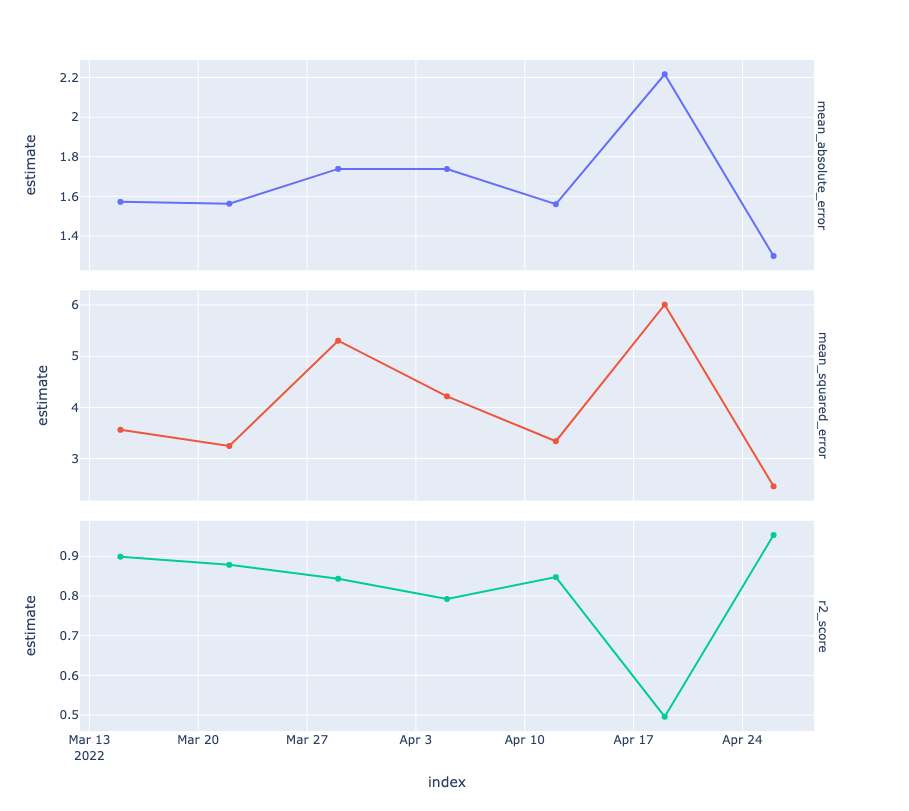
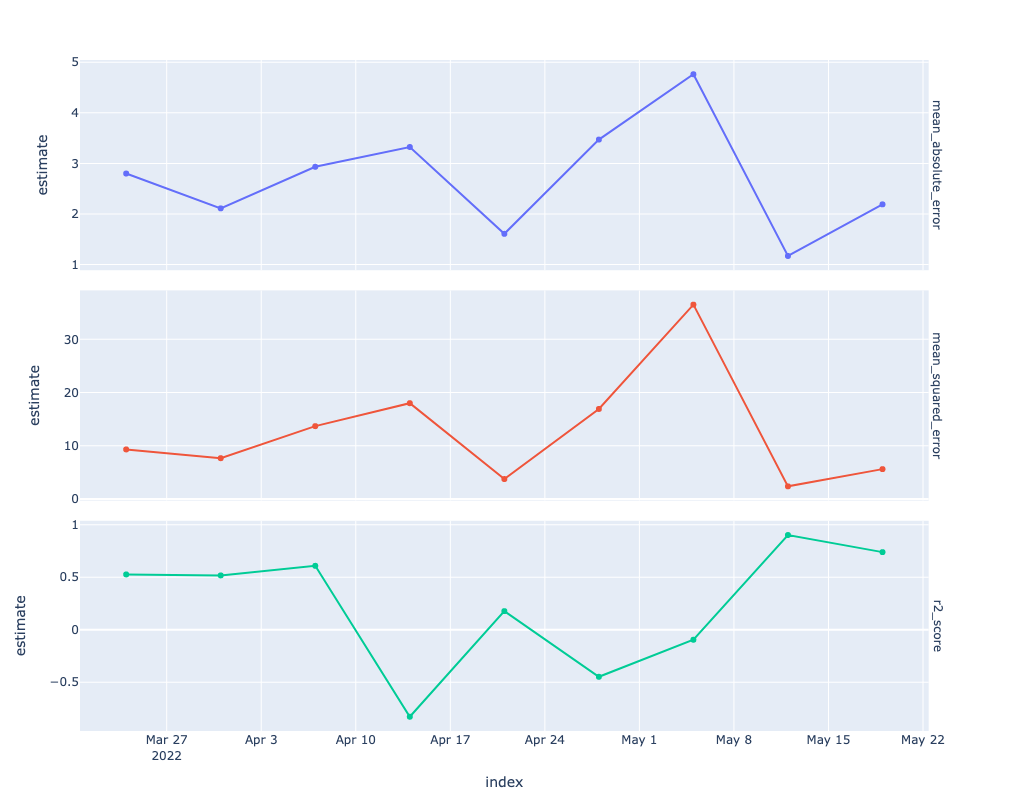
Fix up plot, printing, and then render

diff --git a/docs/get-started/monitor.html b/docs/get-started/monitor.html
@@ -336,28 +336,27 @@ How does my model use time?
 <span id="cb5-5"><a href="#cb5-5" aria-hidden="true" tabindex="-1"></a><span class="im">from</span> datetime <span class="im">import</span> timedelta</span>
 <span id="cb5-6"><a href="#cb5-6" aria-hidden="true" tabindex="-1"></a></span>
 <span id="cb5-7"><a href="#cb5-7" aria-hidden="true" tabindex="-1"></a>cars <span class="op">=</span> pd.read_csv(<span class="st">"https://vetiver.rstudio.com/get-started/new-cars.csv"</span>)</span>
-<span id="cb5-8"><a href="#cb5-8" aria-hidden="true" tabindex="-1"></a>original_cars <span class="op">=</span> cars.iloc[:<span class="dv">14</span>, :]</span>
-<span id="cb5-9"><a href="#cb5-9" aria-hidden="true" tabindex="-1"></a>original_cars[<span class="st">"preds"</span>] <span class="op">=</span> v.model.predict(original_cars.drop(columns<span class="op">=</span>[<span class="st">"date_obs"</span>, <span class="st">"mpg"</span>]))</span></code><button title="Copy to Clipboard" class="code-copy-button"><i class="bi"></i></button></pre></div>
-<div class="cell-output cell-output-stdout">
-<pre><code>&lt;string&gt;:1: SettingWithCopyWarning: 
-A value is trying to be set on a copy of a slice from a DataFrame.
-Try using .loc[row_indexer,col_indexer] = value instead
-
-See the caveats in the documentation: https://pandas.pydata.org/pandas-docs/stable/user_guide/indexing.html#returning-a-view-versus-a-copy</code></pre>
-</div>
-<div class="sourceCode cell-code" id="cb7"><pre class="sourceCode python code-with-copy"><code class="sourceCode python"><span id="cb7-1"><a href="#cb7-1" aria-hidden="true" tabindex="-1"></a>metric_set <span class="op">=</span> [metrics.mean_absolute_error, metrics.mean_squared_error, metrics.r2_score]</span>
-<span id="cb7-2"><a href="#cb7-2" aria-hidden="true" tabindex="-1"></a>td <span class="op">=</span> timedelta(weeks <span class="op">=</span> <span class="dv">1</span>)</span>
-<span id="cb7-3"><a href="#cb7-3" aria-hidden="true" tabindex="-1"></a></span>
-<span id="cb7-4"><a href="#cb7-4" aria-hidden="true" tabindex="-1"></a>original_metrics <span class="op">=</span> vetiver.compute_metrics(</span>
-<span id="cb7-5"><a href="#cb7-5" aria-hidden="true" tabindex="-1"></a>    data <span class="op">=</span> original_cars, </span>
-<span id="cb7-6"><a href="#cb7-6" aria-hidden="true" tabindex="-1"></a>    date_var <span class="op">=</span> <span class="st">"date_obs"</span>, </span>
-<span id="cb7-7"><a href="#cb7-7" aria-hidden="true" tabindex="-1"></a>    period <span class="op">=</span> td, </span>
-<span id="cb7-8"><a href="#cb7-8" aria-hidden="true" tabindex="-1"></a>    metric_set <span class="op">=</span> metric_set, </span>
-<span id="cb7-9"><a href="#cb7-9" aria-hidden="true" tabindex="-1"></a>    truth <span class="op">=</span> <span class="st">"mpg"</span>, </span>
-<span id="cb7-10"><a href="#cb7-10" aria-hidden="true" tabindex="-1"></a>    estimate <span class="op">=</span> <span class="st">"preds"</span></span>
-<span id="cb7-11"><a href="#cb7-11" aria-hidden="true" tabindex="-1"></a>)</span>
-<span id="cb7-12"><a href="#cb7-12" aria-hidden="true" tabindex="-1"></a></span>
-<span id="cb7-13"><a href="#cb7-13" aria-hidden="true" tabindex="-1"></a>original_metrics</span></code><button title="Copy to Clipboard" class="code-copy-button"><i class="bi"></i></button></pre></div>
+<span id="cb5-8"><a href="#cb5-8" aria-hidden="true" tabindex="-1"></a>original_cars <span class="op">=</span> cars.iloc[:<span class="dv">14</span>, :].copy()</span>
+<span id="cb5-9"><a href="#cb5-9" aria-hidden="true" tabindex="-1"></a>original_cars[<span class="st">"preds"</span>] <span class="op">=</span> v.model.predict(</span>
+<span id="cb5-10"><a href="#cb5-10" aria-hidden="true" tabindex="-1"></a>    original_cars.drop(columns<span class="op">=</span>[<span class="st">"date_obs"</span>, <span class="st">"mpg"</span>])</span>
+<span id="cb5-11"><a href="#cb5-11" aria-hidden="true" tabindex="-1"></a>)</span>
+<span id="cb5-12"><a href="#cb5-12" aria-hidden="true" tabindex="-1"></a></span>
+<span id="cb5-13"><a href="#cb5-13" aria-hidden="true" tabindex="-1"></a>metric_set <span class="op">=</span> [metrics.mean_absolute_error, </span>
+<span id="cb5-14"><a href="#cb5-14" aria-hidden="true" tabindex="-1"></a>  metrics.mean_squared_error, </span>
+<span id="cb5-15"><a href="#cb5-15" aria-hidden="true" tabindex="-1"></a>  metrics.r2_score]</span>
+<span id="cb5-16"><a href="#cb5-16" aria-hidden="true" tabindex="-1"></a>  </span>
+<span id="cb5-17"><a href="#cb5-17" aria-hidden="true" tabindex="-1"></a>td <span class="op">=</span> timedelta(weeks <span class="op">=</span> <span class="dv">1</span>)</span>
+<span id="cb5-18"><a href="#cb5-18" aria-hidden="true" tabindex="-1"></a></span>
+<span id="cb5-19"><a href="#cb5-19" aria-hidden="true" tabindex="-1"></a>original_metrics <span class="op">=</span> vetiver.compute_metrics(</span>
+<span id="cb5-20"><a href="#cb5-20" aria-hidden="true" tabindex="-1"></a>    data <span class="op">=</span> original_cars, </span>
+<span id="cb5-21"><a href="#cb5-21" aria-hidden="true" tabindex="-1"></a>    date_var <span class="op">=</span> <span class="st">"date_obs"</span>, </span>
+<span id="cb5-22"><a href="#cb5-22" aria-hidden="true" tabindex="-1"></a>    period <span class="op">=</span> td, </span>
+<span id="cb5-23"><a href="#cb5-23" aria-hidden="true" tabindex="-1"></a>    metric_set <span class="op">=</span> metric_set, </span>
+<span id="cb5-24"><a href="#cb5-24" aria-hidden="true" tabindex="-1"></a>    truth <span class="op">=</span> <span class="st">"mpg"</span>, </span>
+<span id="cb5-25"><a href="#cb5-25" aria-hidden="true" tabindex="-1"></a>    estimate <span class="op">=</span> <span class="st">"preds"</span></span>
+<span id="cb5-26"><a href="#cb5-26" aria-hidden="true" tabindex="-1"></a>)</span>
+<span id="cb5-27"><a href="#cb5-27" aria-hidden="true" tabindex="-1"></a></span>
+<span id="cb5-28"><a href="#cb5-28" aria-hidden="true" tabindex="-1"></a>original_metrics</span></code><button title="Copy to Clipboard" class="code-copy-button"><i class="bi"></i></button></pre></div>
 <div class="cell-output cell-output-stdout">
 <pre><code>       index  n               metric   estimate
 0 2022-03-24  7  mean_absolute_error   3.164286
@@ -374,44 +373,61 @@ See the caveats in the documentation: https://pandas.pydata.org/pandas-docs/stab
 </section>
 <section id="pin-metrics" class="level2">
 <h2 class="anchored" data-anchor-id="pin-metrics">Pin metrics</h2>
-<p>The first time you pin monitoring metrics, you can write to a board as normal. However, when adding new metrics measurements to your pin as you continue to gather new data and monitor, you may have dates that overlap with those already in the pin, depending on your monitoring strategy. You can choose how to handle overlapping dates with the <code>overwrite</code> argument.</p>
+<p>The first time you pin monitoring metrics, you can write to a board as normal.</p>
 <div class="panel-tabset" data-group="language">
 <ul class="nav nav-tabs" role="tablist"><li class="nav-item" role="presentation"><a class="nav-link active" id="tabset-3-1-tab" data-bs-toggle="tab" data-bs-target="#tabset-3-1" role="tab" aria-controls="tabset-3-1" aria-selected="true">R</a></li><li class="nav-item" role="presentation"><a class="nav-link" id="tabset-3-2-tab" data-bs-toggle="tab" data-bs-target="#tabset-3-2" role="tab" aria-controls="tabset-3-2" aria-selected="false">Python</a></li></ul>
 <div class="tab-content" data-group="language">
 <div id="tabset-3-1" class="tab-pane active" role="tabpanel" aria-labelledby="tabset-3-1-tab">
 <div class="cell">
-<div class="sourceCode cell-code" id="cb9"><pre class="sourceCode r code-with-copy"><code class="sourceCode r"><span id="cb9-1"><a href="#cb9-1" aria-hidden="true" tabindex="-1"></a>model_board <span class="sc">%&gt;%</span> <span class="fu">pin_write</span>(original_metrics, <span class="st">"tree_metrics"</span>)</span>
-<span id="cb9-2"><a href="#cb9-2" aria-hidden="true" tabindex="-1"></a></span>
-<span id="cb9-3"><a href="#cb9-3" aria-hidden="true" tabindex="-1"></a><span class="co"># dates overlap with existing metrics:</span></span>
-<span id="cb9-4"><a href="#cb9-4" aria-hidden="true" tabindex="-1"></a>new_cars <span class="ot">&lt;-</span> <span class="fu">slice</span>(cars, <span class="sc">-</span><span class="dv">1</span><span class="sc">:-</span><span class="dv">7</span>)</span>
-<span id="cb9-5"><a href="#cb9-5" aria-hidden="true" tabindex="-1"></a>new_metrics <span class="ot">&lt;-</span></span>
-<span id="cb9-6"><a href="#cb9-6" aria-hidden="true" tabindex="-1"></a>    <span class="fu">augment</span>(v, <span class="at">new_data =</span> new_cars) <span class="sc">%&gt;%</span></span>
-<span id="cb9-7"><a href="#cb9-7" aria-hidden="true" tabindex="-1"></a>    <span class="fu">vetiver_compute_metrics</span>(date_obs, <span class="st">"week"</span>, mpg, .pred)</span>
-<span id="cb9-8"><a href="#cb9-8" aria-hidden="true" tabindex="-1"></a></span>
-<span id="cb9-9"><a href="#cb9-9" aria-hidden="true" tabindex="-1"></a>model_board <span class="sc">%&gt;%</span></span>
-<span id="cb9-10"><a href="#cb9-10" aria-hidden="true" tabindex="-1"></a>    <span class="fu">vetiver_pin_metrics</span>(new_metrics, <span class="st">"tree_metrics"</span>, <span class="at">overwrite =</span> <span class="cn">TRUE</span>)</span></code><button title="Copy to Clipboard" class="code-copy-button"><i class="bi"></i></button></pre></div>
+<div class="sourceCode cell-code" id="cb7"><pre class="sourceCode r code-with-copy"><code class="sourceCode r"><span id="cb7-1"><a href="#cb7-1" aria-hidden="true" tabindex="-1"></a>model_board <span class="sc">%&gt;%</span> <span class="fu">pin_write</span>(original_metrics, <span class="st">"tree_metrics"</span>)</span></code><button title="Copy to Clipboard" class="code-copy-button"><i class="bi"></i></button></pre></div>
 </div>
 </div>
 <div id="tabset-3-2" class="tab-pane" role="tabpanel" aria-labelledby="tabset-3-2-tab">
 <div class="cell">
-<div class="sourceCode cell-code" id="cb10"><pre class="sourceCode python code-with-copy"><code class="sourceCode python"><span id="cb10-1"><a href="#cb10-1" aria-hidden="true" tabindex="-1"></a><span class="im">import</span> vetiver</span>
-<span id="cb10-2"><a href="#cb10-2" aria-hidden="true" tabindex="-1"></a><span class="im">import</span> pins</span>
-<span id="cb10-3"><a href="#cb10-3" aria-hidden="true" tabindex="-1"></a></span>
-<span id="cb10-4"><a href="#cb10-4" aria-hidden="true" tabindex="-1"></a>model_board.pin_write(original_metrics, <span class="st">"tree_metrics"</span>, <span class="bu">type</span> <span class="op">=</span> <span class="st">"csv"</span>)</span>
-<span id="cb10-5"><a href="#cb10-5" aria-hidden="true" tabindex="-1"></a></span>
-<span id="cb10-6"><a href="#cb10-6" aria-hidden="true" tabindex="-1"></a><span class="co"># dates overlap with existing metrics:</span></span></code><button title="Copy to Clipboard" class="code-copy-button"><i class="bi"></i></button></pre></div>
-<div class="sourceCode cell-code" id="cb11"><pre class="sourceCode python code-with-copy"><code class="sourceCode python"><span id="cb11-1"><a href="#cb11-1" aria-hidden="true" tabindex="-1"></a>new_cars <span class="op">=</span> cars.iloc[<span class="dv">7</span>:, :]</span>
-<span id="cb11-2"><a href="#cb11-2" aria-hidden="true" tabindex="-1"></a>new_cars[<span class="st">"preds"</span>] <span class="op">=</span> v.model.predict(new_cars.drop(columns<span class="op">=</span>[<span class="st">"date_obs"</span>, <span class="st">"mpg"</span>]))</span></code><button title="Copy to Clipboard" class="code-copy-button"><i class="bi"></i></button></pre></div>
-<div class="sourceCode cell-code" id="cb12"><pre class="sourceCode python code-with-copy"><code class="sourceCode python"><span id="cb12-1"><a href="#cb12-1" aria-hidden="true" tabindex="-1"></a>new_metrics <span class="op">=</span> vetiver.compute_metrics(</span>
-<span id="cb12-2"><a href="#cb12-2" aria-hidden="true" tabindex="-1"></a>    data <span class="op">=</span> new_cars, </span>
-<span id="cb12-3"><a href="#cb12-3" aria-hidden="true" tabindex="-1"></a>    date_var <span class="op">=</span> <span class="st">"date_obs"</span>, </span>
-<span id="cb12-4"><a href="#cb12-4" aria-hidden="true" tabindex="-1"></a>    period <span class="op">=</span> td, </span>
-<span id="cb12-5"><a href="#cb12-5" aria-hidden="true" tabindex="-1"></a>    metric_set <span class="op">=</span> metric_set, </span>
-<span id="cb12-6"><a href="#cb12-6" aria-hidden="true" tabindex="-1"></a>    truth <span class="op">=</span> <span class="st">"mpg"</span>, </span>
-<span id="cb12-7"><a href="#cb12-7" aria-hidden="true" tabindex="-1"></a>    estimate <span class="op">=</span> <span class="st">"preds"</span></span>
-<span id="cb12-8"><a href="#cb12-8" aria-hidden="true" tabindex="-1"></a>)</span>
-<span id="cb12-9"><a href="#cb12-9" aria-hidden="true" tabindex="-1"></a>                    </span>
-<span id="cb12-10"><a href="#cb12-10" aria-hidden="true" tabindex="-1"></a>vetiver.pin_metrics(model_board, new_metrics, <span class="st">"tree_metrics"</span>, overwrite <span class="op">=</span> <span class="va">True</span>)</span></code><button title="Copy to Clipboard" class="code-copy-button"><i class="bi"></i></button></pre></div>
+<div class="sourceCode cell-code" id="cb8"><pre class="sourceCode python code-with-copy"><code class="sourceCode python"><span id="cb8-1"><a href="#cb8-1" aria-hidden="true" tabindex="-1"></a>model_board.pin_write(original_metrics, <span class="st">"tree_metrics"</span>, <span class="bu">type</span> <span class="op">=</span> <span class="st">"csv"</span>)</span></code><button title="Copy to Clipboard" class="code-copy-button"><i class="bi"></i></button></pre></div>
+</div>
+</div>
+</div>
+</div>
+<p>However, when adding new metrics measurements to your pin as you continue to gather new data and monitor, you may have dates that overlap with those already in the pin, depending on your monitoring strategy. You can choose how to handle overlapping dates with the <code>overwrite</code> argument.</p>
+<div class="panel-tabset" data-group="language">
+<ul class="nav nav-tabs" role="tablist"><li class="nav-item" role="presentation"><a class="nav-link active" id="tabset-4-1-tab" data-bs-toggle="tab" data-bs-target="#tabset-4-1" role="tab" aria-controls="tabset-4-1" aria-selected="true">R</a></li><li class="nav-item" role="presentation"><a class="nav-link" id="tabset-4-2-tab" data-bs-toggle="tab" data-bs-target="#tabset-4-2" role="tab" aria-controls="tabset-4-2" aria-selected="false">Python</a></li></ul>
+<div class="tab-content" data-group="language">
+<div id="tabset-4-1" class="tab-pane active" role="tabpanel" aria-labelledby="tabset-4-1-tab">
+<div class="cell">
+<div class="sourceCode cell-code" id="cb9"><pre class="sourceCode r code-with-copy"><code class="sourceCode r"><span id="cb9-1"><a href="#cb9-1" aria-hidden="true" tabindex="-1"></a><span class="co"># dates overlap with existing metrics:</span></span>
+<span id="cb9-2"><a href="#cb9-2" aria-hidden="true" tabindex="-1"></a>new_cars <span class="ot">&lt;-</span> <span class="fu">slice</span>(cars, <span class="sc">-</span><span class="dv">1</span><span class="sc">:-</span><span class="dv">7</span>)</span>
+<span id="cb9-3"><a href="#cb9-3" aria-hidden="true" tabindex="-1"></a>new_metrics <span class="ot">&lt;-</span></span>
+<span id="cb9-4"><a href="#cb9-4" aria-hidden="true" tabindex="-1"></a>    <span class="fu">augment</span>(v, <span class="at">new_data =</span> new_cars) <span class="sc">%&gt;%</span></span>
+<span id="cb9-5"><a href="#cb9-5" aria-hidden="true" tabindex="-1"></a>    <span class="fu">vetiver_compute_metrics</span>(date_obs, <span class="st">"week"</span>, mpg, .pred)</span>
+<span id="cb9-6"><a href="#cb9-6" aria-hidden="true" tabindex="-1"></a></span>
+<span id="cb9-7"><a href="#cb9-7" aria-hidden="true" tabindex="-1"></a>model_board <span class="sc">%&gt;%</span></span>
+<span id="cb9-8"><a href="#cb9-8" aria-hidden="true" tabindex="-1"></a>    <span class="fu">vetiver_pin_metrics</span>(new_metrics, <span class="st">"tree_metrics"</span>, <span class="at">overwrite =</span> <span class="cn">TRUE</span>)</span></code><button title="Copy to Clipboard" class="code-copy-button"><i class="bi"></i></button></pre></div>
+</div>
+</div>
+<div id="tabset-4-2" class="tab-pane" role="tabpanel" aria-labelledby="tabset-4-2-tab">
+<div class="cell">
+<div class="sourceCode cell-code" id="cb10"><pre class="sourceCode python code-with-copy"><code class="sourceCode python"><span id="cb10-1"><a href="#cb10-1" aria-hidden="true" tabindex="-1"></a><span class="co"># dates overlap with existing metrics:</span></span>
+<span id="cb10-2"><a href="#cb10-2" aria-hidden="true" tabindex="-1"></a>new_cars <span class="op">=</span> cars.iloc[<span class="dv">7</span>:, :].copy()</span>
+<span id="cb10-3"><a href="#cb10-3" aria-hidden="true" tabindex="-1"></a>new_cars[<span class="st">"preds"</span>] <span class="op">=</span> v.model.predict(</span>
+<span id="cb10-4"><a href="#cb10-4" aria-hidden="true" tabindex="-1"></a>    new_cars.drop(columns<span class="op">=</span>[<span class="st">"date_obs"</span>, <span class="st">"mpg"</span>])</span>
+<span id="cb10-5"><a href="#cb10-5" aria-hidden="true" tabindex="-1"></a>)</span>
+<span id="cb10-6"><a href="#cb10-6" aria-hidden="true" tabindex="-1"></a></span>
+<span id="cb10-7"><a href="#cb10-7" aria-hidden="true" tabindex="-1"></a>new_metrics <span class="op">=</span> vetiver.compute_metrics(</span>
+<span id="cb10-8"><a href="#cb10-8" aria-hidden="true" tabindex="-1"></a>    data <span class="op">=</span> new_cars, </span>
+<span id="cb10-9"><a href="#cb10-9" aria-hidden="true" tabindex="-1"></a>    date_var <span class="op">=</span> <span class="st">"date_obs"</span>, </span>
+<span id="cb10-10"><a href="#cb10-10" aria-hidden="true" tabindex="-1"></a>    period <span class="op">=</span> td, </span>
+<span id="cb10-11"><a href="#cb10-11" aria-hidden="true" tabindex="-1"></a>    metric_set <span class="op">=</span> metric_set, </span>
+<span id="cb10-12"><a href="#cb10-12" aria-hidden="true" tabindex="-1"></a>    truth <span class="op">=</span> <span class="st">"mpg"</span>, </span>
+<span id="cb10-13"><a href="#cb10-13" aria-hidden="true" tabindex="-1"></a>    estimate <span class="op">=</span> <span class="st">"preds"</span></span>
+<span id="cb10-14"><a href="#cb10-14" aria-hidden="true" tabindex="-1"></a>)</span>
+<span id="cb10-15"><a href="#cb10-15" aria-hidden="true" tabindex="-1"></a>                    </span>
+<span id="cb10-16"><a href="#cb10-16" aria-hidden="true" tabindex="-1"></a>vetiver.pin_metrics(</span>
+<span id="cb10-17"><a href="#cb10-17" aria-hidden="true" tabindex="-1"></a>    model_board, </span>
+<span id="cb10-18"><a href="#cb10-18" aria-hidden="true" tabindex="-1"></a>    new_metrics, </span>
+<span id="cb10-19"><a href="#cb10-19" aria-hidden="true" tabindex="-1"></a>    <span class="st">"tree_metrics"</span>, </span>
+<span id="cb10-20"><a href="#cb10-20" aria-hidden="true" tabindex="-1"></a>    overwrite <span class="op">=</span> <span class="va">True</span></span>
+<span id="cb10-21"><a href="#cb10-21" aria-hidden="true" tabindex="-1"></a>)</span></code><button title="Copy to Clipboard" class="code-copy-button"><i class="bi"></i></button></pre></div>
 </div>
 </div>
 </div>
@@ -421,24 +437,29 @@ See the caveats in the documentation: https://pandas.pydata.org/pandas-docs/stab
 <h2 class="anchored" data-anchor-id="plot-metrics">Plot metrics</h2>
 <p>You can visualize your set of computed metrics and your model’s performance<a href="#fn1" class="footnote-ref" id="fnref1" role="doc-noteref"><sup>1</sup></a>.</p>
 <div class="panel-tabset" data-group="language">
-<ul class="nav nav-tabs" role="tablist"><li class="nav-item" role="presentation"><a class="nav-link active" id="tabset-4-1-tab" data-bs-toggle="tab" data-bs-target="#tabset-4-1" role="tab" aria-controls="tabset-4-1" aria-selected="true">R</a></li><li class="nav-item" role="presentation"><a class="nav-link" id="tabset-4-2-tab" data-bs-toggle="tab" data-bs-target="#tabset-4-2" role="tab" aria-controls="tabset-4-2" aria-selected="false">Python</a></li></ul>
+<ul class="nav nav-tabs" role="tablist"><li class="nav-item" role="presentation"><a class="nav-link active" id="tabset-5-1-tab" data-bs-toggle="tab" data-bs-target="#tabset-5-1" role="tab" aria-controls="tabset-5-1" aria-selected="true">R</a></li><li class="nav-item" role="presentation"><a class="nav-link" id="tabset-5-2-tab" data-bs-toggle="tab" data-bs-target="#tabset-5-2" role="tab" aria-controls="tabset-5-2" aria-selected="false">Python</a></li></ul>
 <div class="tab-content" data-group="language">
-<div id="tabset-4-1" class="tab-pane active" role="tabpanel" aria-labelledby="tabset-4-1-tab">
-<div class="cell">
-<div class="sourceCode cell-code" id="cb13"><pre class="sourceCode r code-with-copy"><code class="sourceCode r"><span id="cb13-1"><a href="#cb13-1" aria-hidden="true" tabindex="-1"></a><span class="fu">library</span>(ggplot2)</span>
-<span id="cb13-2"><a href="#cb13-2" aria-hidden="true" tabindex="-1"></a>monitoring_metrics <span class="ot">&lt;-</span> model_board <span class="sc">%&gt;%</span> <span class="fu">pin_read</span>(<span class="st">"tree_metrics"</span>)</span>
-<span id="cb13-3"><a href="#cb13-3" aria-hidden="true" tabindex="-1"></a><span class="fu">vetiver_plot_metrics</span>(monitoring_metrics) <span class="sc">+</span></span>
-<span id="cb13-4"><a href="#cb13-4" aria-hidden="true" tabindex="-1"></a>    <span class="fu">scale_size</span>(<span class="at">range =</span> <span class="fu">c</span>(<span class="dv">2</span>, <span class="dv">4</span>))</span></code><button title="Copy to Clipboard" class="code-copy-button"><i class="bi"></i></button></pre></div>
+<div id="tabset-5-1" class="tab-pane active" role="tabpanel" aria-labelledby="tabset-5-1-tab">
+<div class="cell" data-layout-align="center">
+<div class="sourceCode cell-code" id="cb11"><pre class="sourceCode r code-with-copy"><code class="sourceCode r"><span id="cb11-1"><a href="#cb11-1" aria-hidden="true" tabindex="-1"></a><span class="fu">library</span>(ggplot2)</span>
+<span id="cb11-2"><a href="#cb11-2" aria-hidden="true" tabindex="-1"></a>monitoring_metrics <span class="ot">&lt;-</span> model_board <span class="sc">%&gt;%</span> <span class="fu">pin_read</span>(<span class="st">"tree_metrics"</span>)</span>
+<span id="cb11-3"><a href="#cb11-3" aria-hidden="true" tabindex="-1"></a><span class="fu">vetiver_plot_metrics</span>(monitoring_metrics) <span class="sc">+</span></span>
+<span id="cb11-4"><a href="#cb11-4" aria-hidden="true" tabindex="-1"></a>    <span class="fu">scale_size</span>(<span class="at">range =</span> <span class="fu">c</span>(<span class="dv">2</span>, <span class="dv">4</span>))</span></code><button title="Copy to Clipboard" class="code-copy-button"><i class="bi"></i></button></pre></div>
 <div class="cell-output-display">
-<p><img src="monitor_files/figure-html/unnamed-chunk-7-1.png" class="img-fluid" width="576"></p>
+<div class="quarto-figure quarto-figure-center">
+<figure class="figure">
+<p><img src="monitor_files/figure-html/unnamed-chunk-9-1.png" class="img-fluid figure-img" width="672"></p>
+</figure>
 </div>
 </div>
 </div>
-<div id="tabset-4-2" class="tab-pane" role="tabpanel" aria-labelledby="tabset-4-2-tab">
+</div>
+<div id="tabset-5-2" class="tab-pane" role="tabpanel" aria-labelledby="tabset-5-2-tab">
 <div class="cell">
-<div class="sourceCode cell-code" id="cb14"><pre class="sourceCode python code-with-copy"><code class="sourceCode python"><span id="cb14-1"><a href="#cb14-1" aria-hidden="true" tabindex="-1"></a>monitoring_metrics <span class="op">=</span> model_board.pin_read(<span class="st">"tree_metrics"</span>)</span>
-<span id="cb14-2"><a href="#cb14-2" aria-hidden="true" tabindex="-1"></a>p <span class="op">=</span> vetiver.plot_metrics(df_metrics <span class="op">=</span> monitoring_metrics)</span>
-<span id="cb14-3"><a href="#cb14-3" aria-hidden="true" tabindex="-1"></a>p.show()</span></code><button title="Copy to Clipboard" class="code-copy-button"><i class="bi"></i></button></pre></div>
+<div class="sourceCode cell-code" id="cb12"><pre class="sourceCode python code-with-copy"><code class="sourceCode python"><span id="cb12-1"><a href="#cb12-1" aria-hidden="true" tabindex="-1"></a>monitoring_metrics <span class="op">=</span> model_board.pin_read(<span class="st">"tree_metrics"</span>)</span>
+<span id="cb12-2"><a href="#cb12-2" aria-hidden="true" tabindex="-1"></a>p <span class="op">=</span> vetiver.plot_metrics(df_metrics <span class="op">=</span> monitoring_metrics)</span>
+<span id="cb12-3"><a href="#cb12-3" aria-hidden="true" tabindex="-1"></a>p.update_yaxes(matches<span class="op">=</span><span class="va">None</span>)</span>
+<span id="cb12-4"><a href="#cb12-4" aria-hidden="true" tabindex="-1"></a>p.show()</span></code><button title="Copy to Clipboard" class="code-copy-button"><i class="bi"></i></button></pre></div>
 </div>
 <p><img src="../images/pythonmonitor.png" class="img-fluid"></p>
 </div>

diff --git a/docs/get-started/version.html b/docs/get-started/version.html
@@ -358,8 +358,8 @@ Note
 <pre><code># A tibble: 2 × 3
   version                created             hash 
   &lt;chr&gt;                  &lt;dttm&gt;              &lt;chr&gt;
-1 20220719T233129Z-4a65a 2022-07-19 17:31:00 4a65a
-2 20220719T233131Z-15475 2022-07-19 17:31:00 15475</code></pre>
+1 20220721T184227Z-4a65a 2022-07-21 12:42:00 4a65a
+2 20220721T184229Z-cbdb5 2022-07-21 12:42:00 cbdb5</code></pre>
 </div>
 </div>
 </div>
@@ -368,8 +368,8 @@ Note
 <div class="sourceCode cell-code" id="cb9"><pre class="sourceCode python code-with-copy"><code class="sourceCode python"><span id="cb9-1"><a href="#cb9-1" aria-hidden="true" tabindex="-1"></a>model_board.pin_versions(<span class="st">"cars_mpg"</span>)</span></code><button title="Copy to Clipboard" class="code-copy-button"><i class="bi"></i></button></pre></div>
 <div class="cell-output cell-output-stdout">
 <pre><code>              created   hash                 version
-0 2022-07-19 17:31:29  dd3e7  20220719T173129Z-dd3e7
-1 2022-07-19 17:31:31  4380a  20220719T173131Z-4380a</code></pre>
+0 2022-07-21 12:42:27  dd3e7  20220721T124227Z-dd3e7
+1 2022-07-21 12:42:29  40f5e  20220721T124229Z-40f5e</code></pre>
 </div>
 </div>
 </div>

diff --git a/docs/learn-more/model-card.html b/docs/learn-more/model-card.html
@@ -246,7 +246,7 @@ code span.wa { color: #60a0b0; font-weight: bold; font-style: italic; } /* Warni
 <span id="cb1-6"><a href="#cb1-6" aria-hidden="true" tabindex="-1"></a>v <span class="ot">&lt;-</span> <span class="fu">vetiver_model</span>(cars_lm, <span class="st">"cars_linear"</span>)</span>
 <span id="cb1-7"><a href="#cb1-7" aria-hidden="true" tabindex="-1"></a><span class="fu">vetiver_pin_write</span>(model_board, v)</span></code><button title="Copy to Clipboard" class="code-copy-button"><i class="bi"></i></button></pre></div>
 <div class="cell-output cell-output-stderr">
-<pre><code>Creating new version '20220719T233102Z-9ca24'
+<pre><code>Creating new version '20220721T184201Z-9ca24'
 Writing to pin 'cars_linear'
 
 Create a Model Card for your published model

diff --git a/docs/get-started/deploy.html b/docs/get-started/deploy.html
@@ -354,7 +354,7 @@ library(plumber)
 library(rapidoc)
 library(vetiver)
 b &lt;- board_folder(path = "pins-r")
-v &lt;- vetiver_pin_read(b, "cars_mpg", version = "20220719T233109Z-80936")
+v &lt;- vetiver_pin_read(b, "cars_mpg", version = "20220721T184210Z-c2308")
 
 #* @plumber
 function(pr) {
